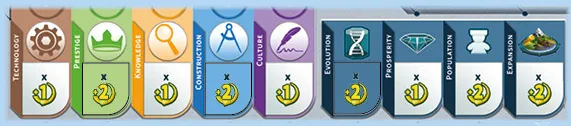
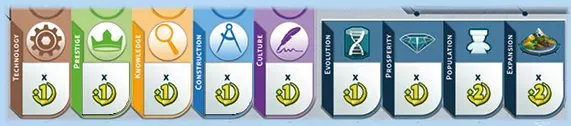
scoring tile randomizer

diff --git a/src/components/setup/ScoringTiles.vue b/src/components/setup/ScoringTiles.vue
@@ -1,0 +1,128 @@
+<template>
+  <h3 class="mt-4 mb-3">{{t('setup.scoringTiles.title')}}</h3>
+
+  <div>
+    <div class="finalScoring">
+      <img class="board" src="@/assets/final-scoring.webp" alt=""/>
+      <AppIcon v-for="scoringTile in finalScoringTiles" type="scoring-tile-points" :name="scoringTile" :key="scoringTile"
+          class="tile" :class="{[scoringTile]:true}"/>
+    </div>
+    <div class="eraScoring">
+      <img class="board" src="@/assets/era-scoring.webp" alt=""/>
+      <AppIcon v-for="(scoringTile,index) in eraScoringTiles" type="scoring-tile" :name="scoringTile" :key="scoringTile"
+          class="tile" :class="{[`item${index}`]:true}"/>
+    </div>
+
+    <button class="btn btn-sm btn-outline-secondary" @click="randomizeScoringTiles">{{t('setup.scoringTiles.randomize')}}</button>
+  </div>
+</template>
+
+<script lang="ts">
+import { defineComponent } from 'vue'
+import { useI18n } from 'vue-i18n'
+import { useStateStore } from '@/store/state'
+import ScoringCategory from '@/services/enum/ScoringCategory'
+import getAllEnumValues from '@brdgm/brdgm-commons/src/util/enum/getAllEnumValues'
+import { shuffle } from 'lodash'
+import AppIcon from '../structure/AppIcon.vue'
+
+export default defineComponent({
+  name: 'ScoringTiles',
+  components: {
+    AppIcon
+  },
+  setup() {
+    const { t } = useI18n()
+    const state = useStateStore()
+
+    const randomizeScoringTiles = function() {
+      const allScoringTiles = shuffle(getAllEnumValues(ScoringCategory))
+      state.setup.eraScoringTiles = allScoringTiles.slice(0, 4)
+      state.setup.finalScoringTiles = allScoringTiles.slice(4, 7)
+    }
+    if (state.setup.eraScoringTiles.length === 0 || state.setup.finalScoringTiles.length === 0) {
+      randomizeScoringTiles()
+    }
+
+    return { t, state, randomizeScoringTiles }
+  },
+  computed: {
+    eraScoringTiles() {
+      return this.state.setup.eraScoringTiles
+    },
+    finalScoringTiles() {
+      return this.state.setup.finalScoringTiles
+    }
+  }
+})
+</script>
+
+<style lang="scss" scoped>
+.finalScoring {
+  position: relative;
+  overflow-x: auto;
+  margin-bottom: 10px;
+  .board {
+    width: 500px;
+  }
+  .tile {
+    position: absolute;
+    top: 55px;
+    &.technology {
+      left: 19px;
+    }
+    &.prestige {      
+      left: 72px;
+    }
+    &.knowledge {
+      left: 125px;
+    }
+    &.construction {
+      left: 179px;
+    }
+    &.culture {      
+      left: 231px;
+    }
+    &.evolution {      
+      left: 293px;
+    }
+    &.prosperity {
+      left: 345px;
+    }
+    &.population {
+      left: 398px;
+    }
+    &.expansion {
+      left: 450px;
+    }
+  }
+}
+.eraScoring {
+  position: relative;
+  overflow-x: auto;
+  margin-bottom: 10px;
+  .board {
+    width: 320px;
+  }
+  .tile {
+    position: absolute;
+    top: 30px;
+    &.item0 {
+      left: 71px;
+    }
+    &.item1 {
+      left: 135px;
+    }
+    &.item2 {
+      left: 199px;
+    }
+    &.item3 {
+      left: 262px;
+    }
+  }
+}
+.tile {
+  height: 47px;
+  box-shadow: 0 0 5px 5px rgb(255 0 0 / 100%);
+}
+</style>

diff --git a/src/store/state.ts b/src/store/state.ts
@@ -1,6 +1,7 @@
 import { defineStore } from 'pinia'
 import { name } from '@/../package.json'
 import DifficultyLevel from '@/services/enum/DifficultyLevel'
+import ScoringCategory from '@/services/enum/ScoringCategory'
 
 export const useStateStore = defineStore(`${name}.state`, {
   state: () => {
@@ -8,13 +9,17 @@ export const useStateStore = defineStore(`${name}.state`, {
       language: 'en',
       baseFontSize: 1.0,
       setup: {
-        difficultyLevel: DifficultyLevel.BEGINNER
+        difficultyLevel: DifficultyLevel.BEGINNER,
+        eraScoringTiles: [],
+        finalScoringTiles: []
       },
       rounds: []
     } as State
   },
   actions: {
     resetGame() {
+      this.setup.eraScoringTiles = []
+      this.setup.finalScoringTiles = []
       this.rounds = []
     },
     storeRound(round : Round) {
@@ -41,6 +46,8 @@ export interface State {
 }
 export interface Setup {
   difficultyLevel: DifficultyLevel
+  eraScoringTiles: ScoringCategory[]
+  finalScoringTiles: ScoringCategory[]
   debugMode?: boolean
 }
 

diff --git a/src/views/SetupGame.vue b/src/views/SetupGame.vue
@@ -2,6 +2,7 @@
   <h1>{{t('setup.title')}}</h1>
 
   <DifficultyLevel/>
+  <ScoringTiles/>
 
   <button class="btn btn-primary btn-lg mt-4" @click="setupBot()">
     {{t('setupBot.title')}}
@@ -16,12 +17,14 @@ import { useI18n } from 'vue-i18n'
 import { useStateStore } from '@/store/state'
 import FooterButtons from '@/components/structure/FooterButtons.vue'
 import DifficultyLevel from '@/components/setup/DifficultyLevel.vue'
+import ScoringTiles from '@/components/setup/ScoringTiles.vue'
 
 export default defineComponent({
   name: 'SetupGame',
   components: {
     FooterButtons,
-    DifficultyLevel
+    DifficultyLevel,
+    ScoringTiles
   },
   setup() {
     const { t } = useI18n()

diff --git a/src/components/structure/AppIcon.vue b/src/components/structure/AppIcon.vue
@@ -18,7 +18,7 @@ export default defineComponent({
     },
     extension: {
       type: String,
-      default: 'png'
+      default: 'webp'
     }
   },
   computed: {
